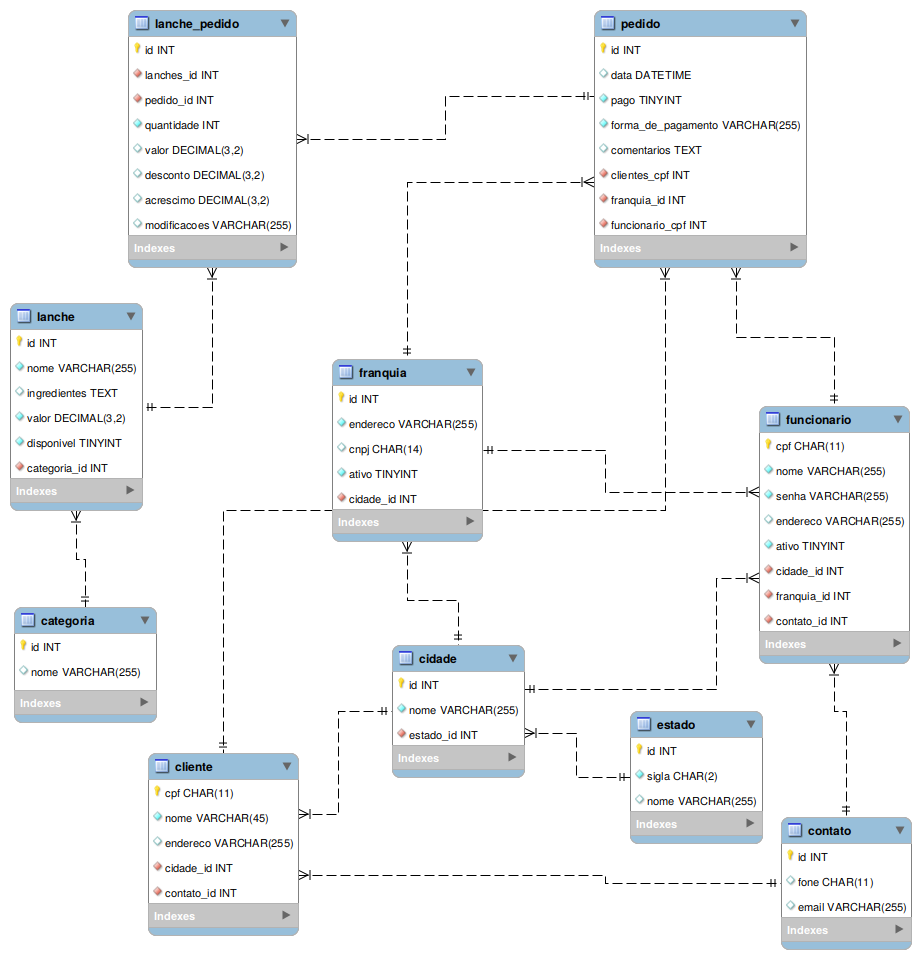
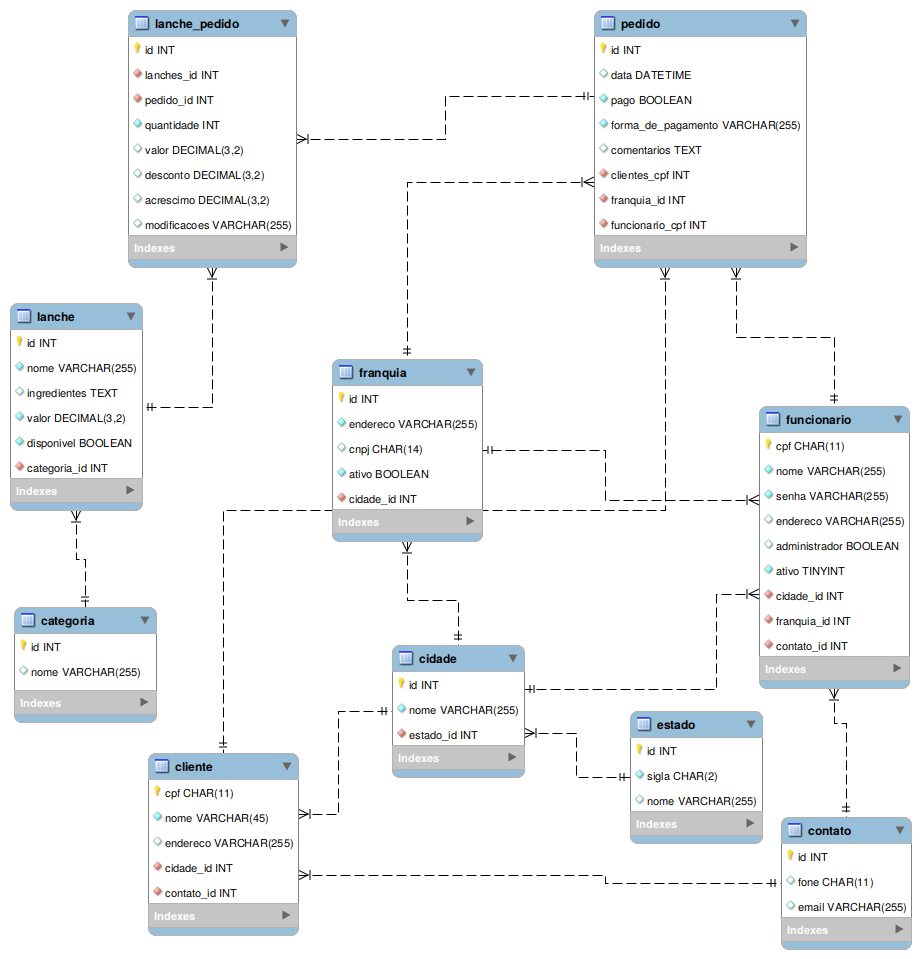
modificada tabela de usuários adicionado campo de identificação de administradores do sistema; corrigido modelo ER do banco

diff --git a/src/src/model/Funcionario.java b/src/src/model/Funcionario.java
@@ -16,6 +16,7 @@ public class Funcionario {
     public String senha;
     public String endereco;
     public boolean ativo;
+    public boolean administrador;
     public int cidade_id;
     public int franquia_id;
     public int contato_id;
